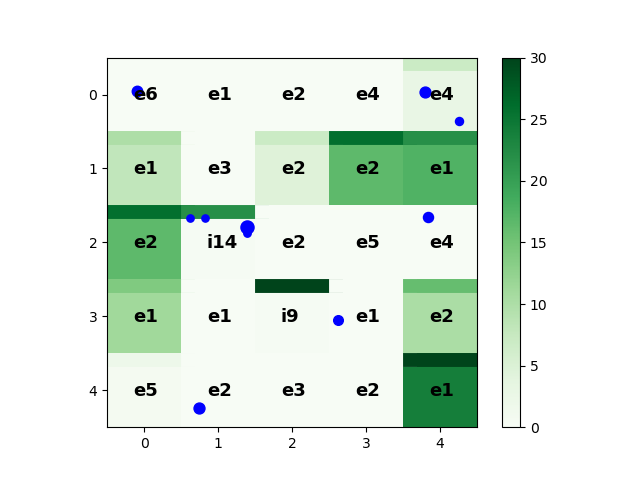
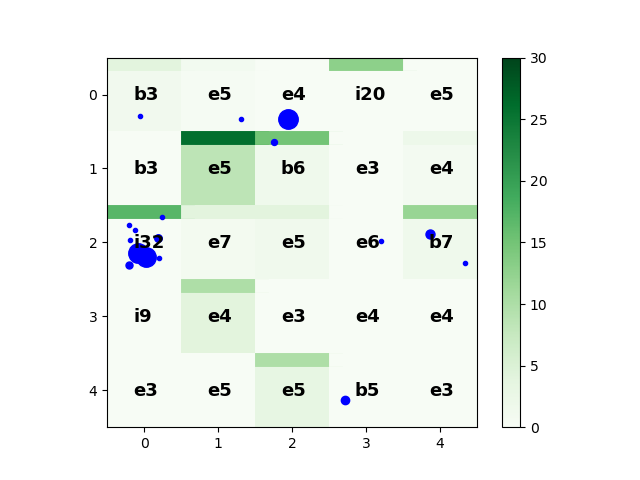
transitioning to probability distributions

diff --git a/classScientist.py b/classScientist.py
@@ -5,43 +5,79 @@ from classCell import *
 class Scientist():
     def __init__(self):
         self.career = np.random.randint(1, 31)
-        # hindex corresponds to where you are in your career
-        self.hindex = abs(np.random.randint(20 - self.career, 35 - self.career))
-        self.citcount = np.random.randint(0, 11)
+        # citcount and impact corresponds to where you are in your career
+        self.impact = abs(np.random.randint(20 - self.career, 35 - self.career))
+        self.citcount = abs(np.random.randint(20 - self.career, 35 - self.career))
 
     def __repr__(self):
         """String representation of Scientist"""
-        return str([self.hindex, self.career, self.citcount])
+        return str([self.impact, self.career, self.citcount])
+
+    def getStarFactor(self):
+        """calculates starFactor based on scientist's parameters"""
+        overall = ((self.impact-(31 - self.career)) + (self.citcount-(31 - self.career)))/(31 - self.career) 
+        return overall
+    
+    def probCell(self, weights, board):
+        # Define the weights
+        c = weights["citation"]
+        i = weights["impact"]
+        e = weights["exploration"]
+
+
+        # Calculate the probabilities for each cell
+        probabilities = np.zeros_like(board)
+
+        denominator = 0
+        for x in range(board.rows):
+            for y in range(board.cols):
+                denominator += np.exp((c * self.citcount) + (i * self.impact) + (e * board[x, y]))
+        for j in range(board.rows):
+            for k in range(board.cols):
+                X1 = board[j, k]
+                
+                numerator = np.exp((c * self.citcount) + (i * self.impact) + (e * X1))
+                
+                probabilities[j, k] = numerator / denominator
+
+        return probabilities
+
+    def citeProbs(self, val):
+        """probability distribution of citing scientists in a cell"""
+        # Calculate the probabilities for each cell
+        probabilities = np.zeros_like(val)
+
+        denominator = 0
+        for sci in val:
+            denominator += np.exp(sci.getStarFactor()) 
+        for i in range(len(val)):
+            numerator = np.exp(val[i].getStarFactor())
+            probabilities[i] = numerator / denominator
+
+        return probabilities
 
     def cite(self, val):
-        """decides if scientist chooses to cite another scientist in the same cell"""
-        choice = np.random.randint(0, 2)
-        # choice = 0 means they cite another scientist
-        # choice = 1 means they don't cite 
-        picked = Scientist()
-        if choice == 0:
-            #finding scientist with most citations
-            maxcit = 0
-            maxSci = Scientist()
-            for sci in val:
-                if sci.citcount > maxcit:
-                    maxcit = sci.citcount
-                    maxSci = sci
-            
-            #find the scientist that actually gets cited
-            if maxcit < 5:
-                picked = np.random.choice(val)
-            else:
-                picked = maxSci
-            
-            picked.citcount += 1
-        return (self.citcount, picked.citcount)
+        """decides which other scientists in the cell get cited"""
+        probs = self.citeProbs(val)
+
+        # if choosing 1 scientist to cite
+        # choice = random.choices(val, weights=probs, k=1)
+        # if choice != self:
+        #     choice.citcount += 1
+
+        # if choosing multiple people to cite
+        for i in range(len(val)):
+            if probs[i] > (1/len(val)):
+                # taking out self citing
+                if val[i] != self:
+                    val[i].citcount += 1
+        return
 
     def probHerd(self):
         """generate the probability of the scientist following the herd 
         based on h index and career"""
-        pHerd = abs((self.hindex-(31 - self.career))/(31 - self.career))
-        if (self.hindex > (31 - self.career)):
+        pHerd = abs((self.impact-(31 - self.career))/(31 - self.career))
+        if (self.impact > (31 - self.career)):
             if pHerd > 1:
                 pHerd = 0
             else:
@@ -51,12 +87,12 @@ class Scientist():
                 pHerd = 1
         return pHerd
 
-    def chooseCell(self, board):
+    def chooseCell(self, board, weights):
         """decides which cell the scientist will query according to payoff"""
         # dictionary of discovered cells' locations and payoff values
         discoveredPayoffs = {}
         maxPayoff = 0.0
-        payoff = 0
+
         for x in board.discovered:
             discoveredPayoffs.update({board.board[x[0]][x[1]].payoff : board.board[x[0]][x[1]]})
 
@@ -73,6 +109,6 @@ class Scientist():
 
     def sciQuery(self, location, board):
         """scientist queries chosen cell"""
-        self.hindex += board.board[location[0]][location[1]].cellQuery(board)
+        self.impact += board.board[location[0]][location[1]].cellQuery(board)
         self.career -= 1
-        return self.hindex
+        return self.impact

diff --git a/Run.py b/Run.py
@@ -5,17 +5,13 @@ from classCell import *
 from classBoard import *
 from classScientist import *
 
-# def make_gif(frame_folder):
-#     frames = [Image.open(image) for image in glob.glob(f"{frame_folder}/*.JPG")]
-#     frame_one = frames[0]
-#     frame_one.save("my_awesome.gif", format="GIF", append_images=frames,
-#             save_all=True, duration=100, loop=0)
-    
-#     if __name__ == "__main__":
-#         make_gif("/path/to/images")
-#     return
+weights = {
+    "citation" : 0.1, 
+    "impact" : 1,
+    "exploration" : 0.1
+}
 
-def run(board, cellsHit, numRun):
+def run(board, cellsHit, numRun, weights):
     """runs query simulation for one year"""
     for key, val in cellsHit.items():
         if len(val) > 1:
@@ -24,7 +20,7 @@ def run(board, cellsHit, numRun):
             for scientist in sciOrder:
                 scientist.sciQuery(key, board)
                 scientist.cite(val)
-                print("scientist: ", scientist)
+                # print("scientist: ", scientist)
         else:
             val[0].sciQuery(key, board)
             # print("scientist: ", val[0])
@@ -44,7 +40,7 @@ def batchRun(board, numScientists, numRuns):
         cellsHit = {}
         for idx in range(len(dept)):
             scientist = dept[idx]
-            location = scientist.chooseCell(board)
+            location = scientist.chooseCell(board, weights)
             if location in cellsHit.keys():
                 cellsHit[location].append(scientist)
             else:
@@ -53,7 +49,7 @@ def batchRun(board, numScientists, numRuns):
                 # when one scientist ends their career, another is introduced
                 dept.remove(scientist)
                 dept.append(Scientist())
-        print("Board with payoff values: ", run(board, cellsHit, j+1))
+        print("Board with payoff values: ", run(board, cellsHit, j+1, weights))
         print("dept: ", dept)
         print()
 
@@ -65,4 +61,4 @@ def batchRun(board, numScientists, numRuns):
     return
 
 board = Board(5, 5)
-batchRun(board, 10, 10)
+batchRun(board, 20, 10)

diff --git a/classBoard.py b/classBoard.py
@@ -48,11 +48,17 @@ class Board():
                     # plotting the "dot" scientists
                     for x in range(1, numSciHits + 1):
                         scientist = cellsHit[cell.location][x-1]
-                        starFactor = (scientist.hindex-(31 - scientist.career))/(31 - scientist.career)
+                        starFactor = scientist.getStarFactor()
                         if starFactor < 0:
-                            dotSize = 5 - 5 * starFactor
+                            if (7 - 7 * abs(starFactor)) < 3:
+                                dotSize = 3
+                            else:
+                                dotSize = 7 - 7 * abs(starFactor)
                         else:
-                            dotSize = 5 + 5 * starFactor
+                            if (starFactor) >= 1:
+                                dotSize = 14
+                            else:
+                                dotSize = 7 + 7 * (starFactor)
                         # generate random locations within the cell for the scientist
                         # offset of 0.5 from the way heatmap is generated
                         randX = np.random.uniform(0.1, 0.9)
